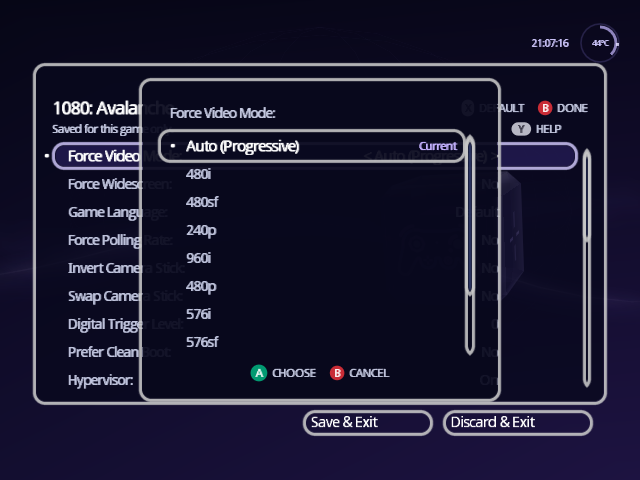
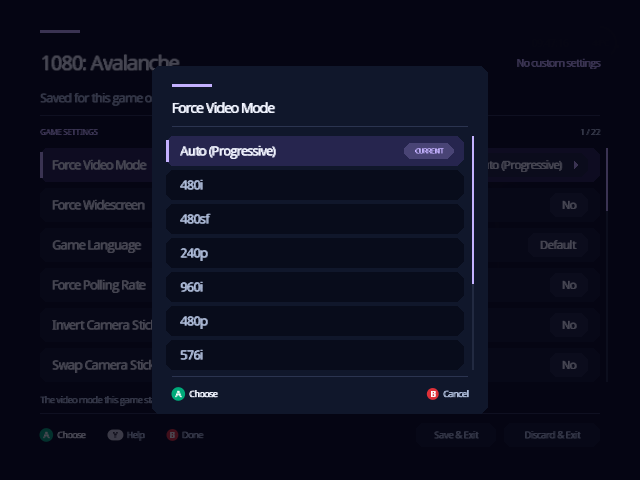
Release v1.23.1
Public-Release-Metadata: {"allow":["192.168.1.32","3.9.46.178","4.294.967.296","emukidid@gmail.com","extrems@extremscorner.org","hsn@sendmail.cz","jens.hauke@4k2.de","lasse.collin@tukaani.org","segher@kernel.crashing.org","tehpola@gmail.com"],"baseline":"","github":"spencercnorton/indigo","include":[".github/CODEOWNERS",".github/FUNDING.yml",".github/ISSUE_TEMPLATE/",".github/PULL_REQUEST_TEMPLATE.md",".gitignore","CHANGELOG.md","CODE_OF_CONDUCT.md","CONTRIBUTING.md","LICENSE","Makefile","NOTICE","README.md","SECURITY.md","SUPPORT.md","buildtools/SWISS_FILE_DESCRIPTIONS.txt","buildtools/check_whitespace.sh","buildtools/dol2gci.cpp","buildtools/dol2ipl.py","buildtools/sd_package.sh","buildtools/ui/poster_pack.py","cube/PowerPC.h","cube/asm.h","cube/linker-script/","cube/packer/","cube/patches/","cube/reservedarea.h","cube/reservedarea.ld","cube/swiss/Makefile","cube/swiss/include/","cube/swiss/source/","docs/SETTINGS.md","docs/examples/","docs/guide/","docs/screenshots/","pc/","wii/"],"pinned":{"cube/linker-script/ogc.ld":"sha256:c2e8d217d8f8edd03e1605b7749344afe3849a1fc5f4cb3d24484dd1dceb4a0f","cube/packer/source/link.ld":"sha256:9370d339794e94cddbabcb905c13ea8db535efcce31d17600350b9489434000c","cube/patches/base/base.ld":"sha256:f50568b7efb501ea58569b42de230c6113f568ca06442950471bbdee1736d1c2","cube/patches/base/common.ld":"sha256:35f27cc406dce84ff3c95bbc97a6cbc4a370eda22a27efb4f84aadc80a2f8d2d","cube/patches/base/dolphin/os.ld":"sha256:6c78148ddbc0371cfeec31fe19fa43cc50
[…]

diff --git a/README.md b/README.md
@@ -53,7 +53,7 @@ game's own settings. Cover art comes from a pack you build yourself (see
 [Posters](#posters)); without one, each game gets a generated card.
 
 <p align="center">
-  <img alt="The game library: GameCube box art in a carousel, the selected cover raised with its title and publisher below it, and the controls shown as GameCube buttons along the bottom." src="docs/screenshots/library.png" width="640">
+  <img alt="The game library in its three layouts in turn. Horizontal: a row of GameCube box art, the selected cover raised with its title and publisher below it. Vertical: a column of covers down the left, the selected one large with its title, publisher and game ID beside it. Grid: five covers across and three rows on screen, a lit frame sliding to the selected cover as the rows scroll. The controls are shown as GameCube buttons along the bottom." src="docs/screenshots/library.png" width="640">
 </p>
 
 **Game details are a surface, not a dialogue.** Artwork, last played, save
@@ -73,14 +73,23 @@ highlighted setting does, and the buttons that work shown as icons. Quick
 settings fit on one screen: menu music and sounds, In-Game Reset, memory-card
 emulation, auto-loaded cheats and a few more. R moves to Game Defaults, what every game
 starts with, and to Setup, which holds video, console, storage, network,
-library and developer options in six sections. X on a game's detail screen
-opens that game's own settings, where anything that differs from Game Defaults
-is marked Custom and X puts it back. Holding the D-pad scrolls, A changes a value
+library and developer options in six sections. X on a game's detail screen,
+or Y on its cover in the Library, opens that game's own settings, where
+anything that differs from Game Defaults is marked Custom and X puts it back.
+Holding the D-pad scrolls, A changes a value
 (or, for a setting with many choices, lists them all), and B leaves and keeps
 your changes. A new video mode only stays if you press
 A within ten seconds. Settings can also be written ahead of time in a file on
 the SD card: see [docs/SETTINGS.md](docs/SETTINGS.md). Setup › Storage says
 whether that file loaded.
+
+<p align="center">
+  <img alt="Settings opens on Quick, its settings as cards with ON and OFF switches and a line above the buttons saying what the highlighted one does. R moves to Game Defaults and R again to Setup, whose six sections are listed with a summary each; A opens Display, its rows go by, and B returns to the list of sections." src="docs/guide/images/settings-tour.png" width="640">
+</p>
+
+<p align="center">
+  <img alt="Y on 007: Agent Under Fire in the grid opens its own settings. A on Force Video Mode lists the modes; 480p is chosen, the row is marked Custom and the top right reads 1 custom. B shows the game's details, whose Settings line reads 1 custom and Force Video Mode: 480p; B again returns to the grid with the same game selected." src="docs/guide/images/library-game-settings.png" width="640">
+</p>
 
 **Indigo comes in eight colors.** Setup › Console › Menu Color recolors the
 cube, its light, the panels and the text: Indigo, the default, or Azure,

diff --git a/docs/guide/game-details.md b/docs/guide/game-details.md
@@ -6,7 +6,7 @@ A on a game in the [Library](library.md) opens its details: everything about
 that one game, and every way to start it, on one screen.
 
 <p align="center">
-  <img alt="The detail screen for 1080° Avalanche: the cover on the left; on the right the title, the publisher, Audio Streaming, Last played, Save data, Cheats with 2 of 12 enabled, and a Launch Game button; below the cover a Shortcuts box with R Verify and L + A Clean Boot; the hint line reads A Launch, B Library, X Settings, Y Cheats." src="images/game-details.png" width="640">
+  <img alt="The detail screen for 1080° Avalanche: the cover on the left; on the right the title, the publisher, Audio Streaming, Last played, Save data, Settings reading Game Defaults with X Change for this game, Cheats with 2 of 12 enabled and the first of them named, and a Launch Game button; below the cover a Shortcuts box with R Verify and L + A Clean Boot; the hint line reads A Launch, B Library, X Settings, Y Cheats." src="images/game-details.png" width="640">
 </p>
 
 ## What's on the screen
@@ -23,6 +23,9 @@ that one game, and every way to start it, on one screen.
   read it from, it says "History unavailable".
 - **Save data**: "Check in game". Indigo doesn't read your memory cards, so
   the game itself is where to look.
+- **Settings**: "Game Defaults" while the game follows them, or how many of
+  its settings are its own and the first of them, such as "1 custom" and
+  "Force Video Mode: 480p". See [below](#this-games-own-settings).
 - **Cheats**: how many of the game's cheats are on and the names of the first
   ones, or "Y Choose cheats" when none are. It reads "No cheats found" when
   there's no cheat file for the game. See [Cheats](cheats.md).
@@ -49,14 +52,16 @@ restart.
 ## This game's own settings
 
 **X** opens settings that apply to this game only: its video mode,
-widescreen, language, polling rate and the rest. Anything you change is marked
+widescreen, language, polling rate and the rest. In the
+[Library](library.md#moving-around), **Y** on the game's cover opens them
+straight away, and leaving them shows these details. Anything you change is marked
 **Custom**, and the detail screen's **Settings** line counts them and names
 the first, for example "1 custom" and "Force Video Mode: 480p". With none, it
 reads "Game Defaults". In the Library, a game with any Custom setting shows
 a small sliders mark in the corner of its cover.
 
 <p align="center">
-  <img alt="X on the detail screen for 1080° Avalanche opens its own settings. A on Force Video Mode lists the modes; 480p is chosen and the row is marked Custom. B returns to the detail screen, whose hint now reads X Settings (1 Custom)." src="images/detail-game-settings.png" width="640">
+  <img alt="X on the detail screen for 1080° Avalanche opens its own settings. A on Force Video Mode lists the modes; 480p is chosen and the row is marked Custom. B returns to the detail screen, whose Settings line now reads 1 custom and Force Video Mode: 480p." src="images/detail-game-settings.png" width="640">
 </p>
 
 In a game's own settings, **X** puts the highlighted setting back to the

diff --git a/docs/guide/library.md b/docs/guide/library.md
@@ -13,7 +13,12 @@ A.
 ## Choose a layout
 
 **Library Layout**, the first row of [Settings](settings.md) › Setup ›
-Library, sets how the Library lays out your games:
+Library, sets how the Library lays out your games. Left and Right on it step
+through the three, and the line above the buttons says how each one moves.
+
+<p align="center">
+  <img alt="Settings, Setup, Library: Library Layout is the first row. Right steps it from Horizontal to Vertical to Grid, and the line above the buttons reads A row of covers; Left and Right move (default), then A column of covers; Up and Down move, then Rows of five covers; every direction moves." src="images/library-layout-setting.png" width="640">
+</p>
 
 - **Horizontal**, the default: a row of covers. The game in the middle is
   raised, with its title and publisher underneath, as the disc's own banner
@@ -24,6 +29,14 @@ Library, sets how the Library lays out your games:
 - **Grid**: rows of five covers, three rows on screen. The selected cover is
   lit and a little larger, and its title and publisher are shown above the
   controls.
+
+<p align="center">
+  <img alt="The Vertical layout: the selected cover large at the left, the covers before and after it tipped back above and below, and its title, publisher, game ID and size beside it. Down moves through 007: Everything or Nothing, From Russia With Love, NightFire and 1080° Avalanche; Right jumps nine games to The Legend of Zelda: Ocarina of Time, and Down moves on to The Wind Waker." src="images/library-vertical.png" width="640">
+</p>
+
+<p align="center">
+  <img alt="The Grid layout: five covers across and three rows on screen, the selected cover lit by a bright frame and a little larger, with its title and publisher above the controls. The frame slides right along the row, the rows scroll as it moves down and back up, and R moves three rows at a time." src="images/library-grid.png" width="640">
+</p>
 
 Every layout wraps round: after the last game comes the first.
 
@@ -51,6 +64,10 @@ column it doesn't have, Up or Down lands on its last game.
 - **B** goes back to Home.
 - A small **sliders mark** in the corner of a cover means that game has
   [settings of its own](game-details.md#this-games-own-settings).
+
+<p align="center">
+  <img alt="Y on 007: Agent Under Fire in the grid opens its own settings. A on Force Video Mode lists the modes; 480p is chosen, the row is marked Custom and the top right reads 1 custom. B shows the game's details, whose Settings line reads 1 custom and Force Video Mode: 480p; B again returns to the grid with the same game selected." src="images/library-game-settings.png" width="640">
+</p>
 
 The Library remembers where you were. Come back from a game's details, or
 from Home, and the same game is still selected.

diff --git a/docs/guide/controls.md b/docs/guide/controls.md
@@ -7,7 +7,7 @@ every screen shows the buttons that work there, drawn as the controller's
 own buttons.
 
 <p align="center">
-  <img alt="The hint lines of five screens, one above the other: Home (the stick and D-pad to turn, A Open), the Library (D-pad Browse, A Open, X Back, B Home), game details (A Launch, B Library, X Settings, Y Cheats), the cheat browser (A Toggle, B Done, X Enabled only, Z Advanced) and a list of choices in Settings (A Choose, B Cancel)." src="images/controls-hints.png" width="640">
+  <img alt="The hint lines of five screens, one above the other: Home (the stick and D-pad to turn, A Open), the Library (D-pad Browse, A Open, Y Settings, X Back, B Home), game details (A Launch, B Library, X Settings, Y Cheats), the cheat browser (A Toggle, B Done, X Enabled only, Z Advanced) and a list of choices in Settings (A Choose, B Cancel)." src="images/controls-hints.png" width="640">
 </p>
 
 ## The short version
@@ -52,10 +52,19 @@ See [Source](source.md).
 
 | Button | Does |
 | --- | --- |
-| Left, Right | Move through your games. |
+| D-pad or stick | Move through your games: see the layouts below. |
 | A | Open the game's details. |
+| Y | The game's own settings. Leaving them shows its details. |
 | X | Up one folder. |
 | B | Back to Home. |
+
+How the D-pad moves depends on **Library Layout** (Setup › Library):
+
+| To move | Horizontal | Vertical | Grid |
+| --- | --- | --- | --- |
+| To the next or previous game | Left, Right | Up, Down | Left, Right |
+| To the game above or below | | | Up, Down |
+| A page at a time | Up, Down, L, R | Left, Right, L, R | L, R |
 
 See [Library](library.md).
 

diff --git a/CHANGELOG.md b/CHANGELOG.md
@@ -3,6 +3,20 @@
 Versions follow [semantic versioning](https://semver.org/); each release is a
 tag on `main`.
 
+## v1.23.1 — pictures of every new screen
+
+- The README's Library animation shows all three layouts, and two new
+  animations follow its Settings paragraph: a tour of Settings in its new
+  look, and Y opening a game's settings from the Library. Home, Game Detail
+  and Menu Color are recorded again on this release.
+- The guide's Library page has an animation of the Library Layout setting
+  and of the Vertical and Grid layouts, and one of Y and a game's settings.
+  Every picture of Settings, Game Detail, the cheat browser, the Library,
+  the Source and System screens and the troubleshooting box is new, so each
+  shows the current look.
+- The guide's Game Detail, Settings and Controls pages describe the
+  Settings line on Game Detail, Y in the Library and each layout's buttons.
+
 ## v1.23.0 — Library layouts, and a game's settings from the Library
 
 - Library Layout, the first setting in Setup › Library, lays the Library out

diff --git a/docs/guide/settings.md b/docs/guide/settings.md
@@ -89,10 +89,11 @@ back: if your TV can't show the new one, you only have to wait ten seconds.
 ## A game's own settings
 
 Each game can have its own video mode, widescreen, language, polling rate and
-the rest. Open them with **X** on the game's [details](game-details.md).
+the rest. Open them with **X** on the game's [details](game-details.md), or
+with **Y** on the game in the [Library](library.md#moving-around).
 
 <p align="center">
-  <img alt="The own settings of 1080° Avalanche, saved for this game only: Force Video Mode is 480p and marked Custom; the top right reads X Default, B Done and Y Help." src="images/settings-game.png" width="640">
+  <img alt="The own settings of 1080° Avalanche, saved for this game only: Force Video Mode is 480p and marked Custom, and the top right reads 1 custom; the buttons along the bottom are A Choose, Y Help, X Default and B Done, with Save & Exit and Discard & Exit." src="images/settings-game.png" width="640">
 </p>
 
 - The title is the game's name, with "Saved for this game only" under it.

diff --git a/docs/guide/README.md b/docs/guide/README.md
@@ -25,7 +25,7 @@
     </td>
     <td width="50%" valign="top">
       <a href="library.md"><img alt="The Library with 1080° Avalanche selected, its box art raised and its title underneath." src="images/library-posters.png" width="100%"></a><br>
-      <b><a href="library.md">Library</a></b>: your games as posters.
+      <b><a href="library.md">Library</a></b>: your games as posters, in a row, a column or a grid.
     </td>
   </tr>
   <tr>
